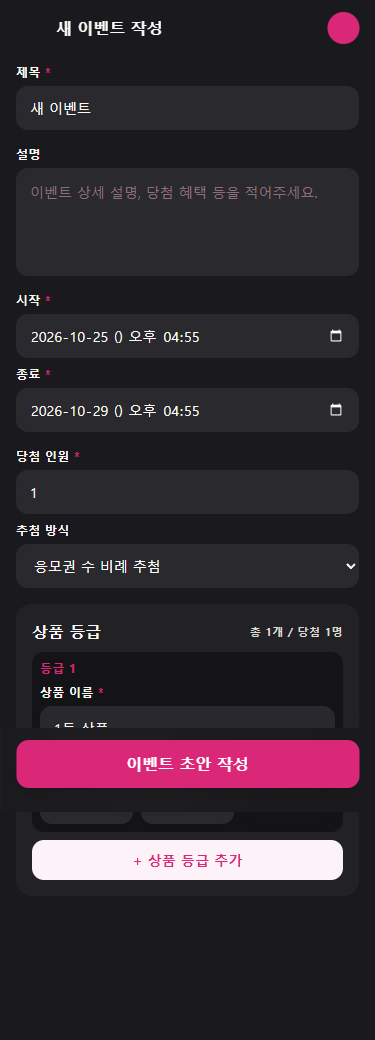
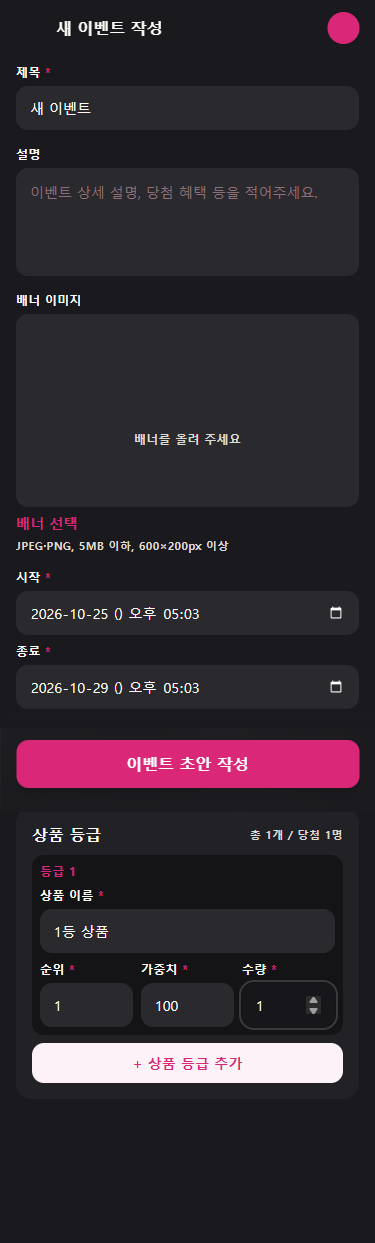
fix: 추첨 방식 선택창의 기존 배치와 스타일 유지

diff --git a/apps/web/test/creatorEventDrawMethodComponents.test.js b/apps/web/test/creatorEventDrawMethodComponents.test.js
@@ -127,10 +127,14 @@ test('모바일 너비에서 두 방식의 한국어 이름을 표시한다', as
     const select = page.getByRole('combobox', { name: '추첨 방식' })
     await select.selectOption('WEIGHTED')
     if (process.env.DRAW_METHOD_SCREENSHOT) {
+      await page.evaluate(() => window.scrollTo(0, 0))
       await page.screenshot({ path: process.env.DRAW_METHOD_SCREENSHOT, fullPage: true })
     }
     assert.ok(await select.isVisible())
-    assert.ok((await select.boundingBox()).width >= 300)
+    const winnerBox = await page.locator('#event-winner-count').boundingBox()
+    const methodBox = await select.boundingBox()
+    assert.equal(methodBox.y, winnerBox.y)
+    assert.ok(Math.abs(methodBox.width - winnerBox.width) <= 1)
     assert.ok(await page.evaluate(() => document.documentElement.scrollWidth <= window.innerWidth))
   } finally { await page.close() }
 })

diff --git a/apps/web/src/pages/CreatorEventForm.jsx b/apps/web/src/pages/CreatorEventForm.jsx
@@ -457,7 +457,7 @@ function EventFormBody({ eventId, isEdit, target }) {
           </div>
         </div>
 
-        <div className="grid grid-cols-1 sm:grid-cols-2 gap-space-sm">
+        <div className="grid grid-cols-2 gap-space-sm">
           <div className="flex flex-col gap-1.5">
             <label className={labelClass} htmlFor="event-winner-count">
               당첨 인원 <span className="text-primary">*</span>
@@ -477,7 +477,7 @@ function EventFormBody({ eventId, isEdit, target }) {
             </label>
             <select
               id="event-draw-method"
-              className={inputClass}
+              className={`${inputClass} opacity-70`}
               value={form.drawMethod}
               onChange={(e) => updateField('drawMethod', e.target.value)}
             >
